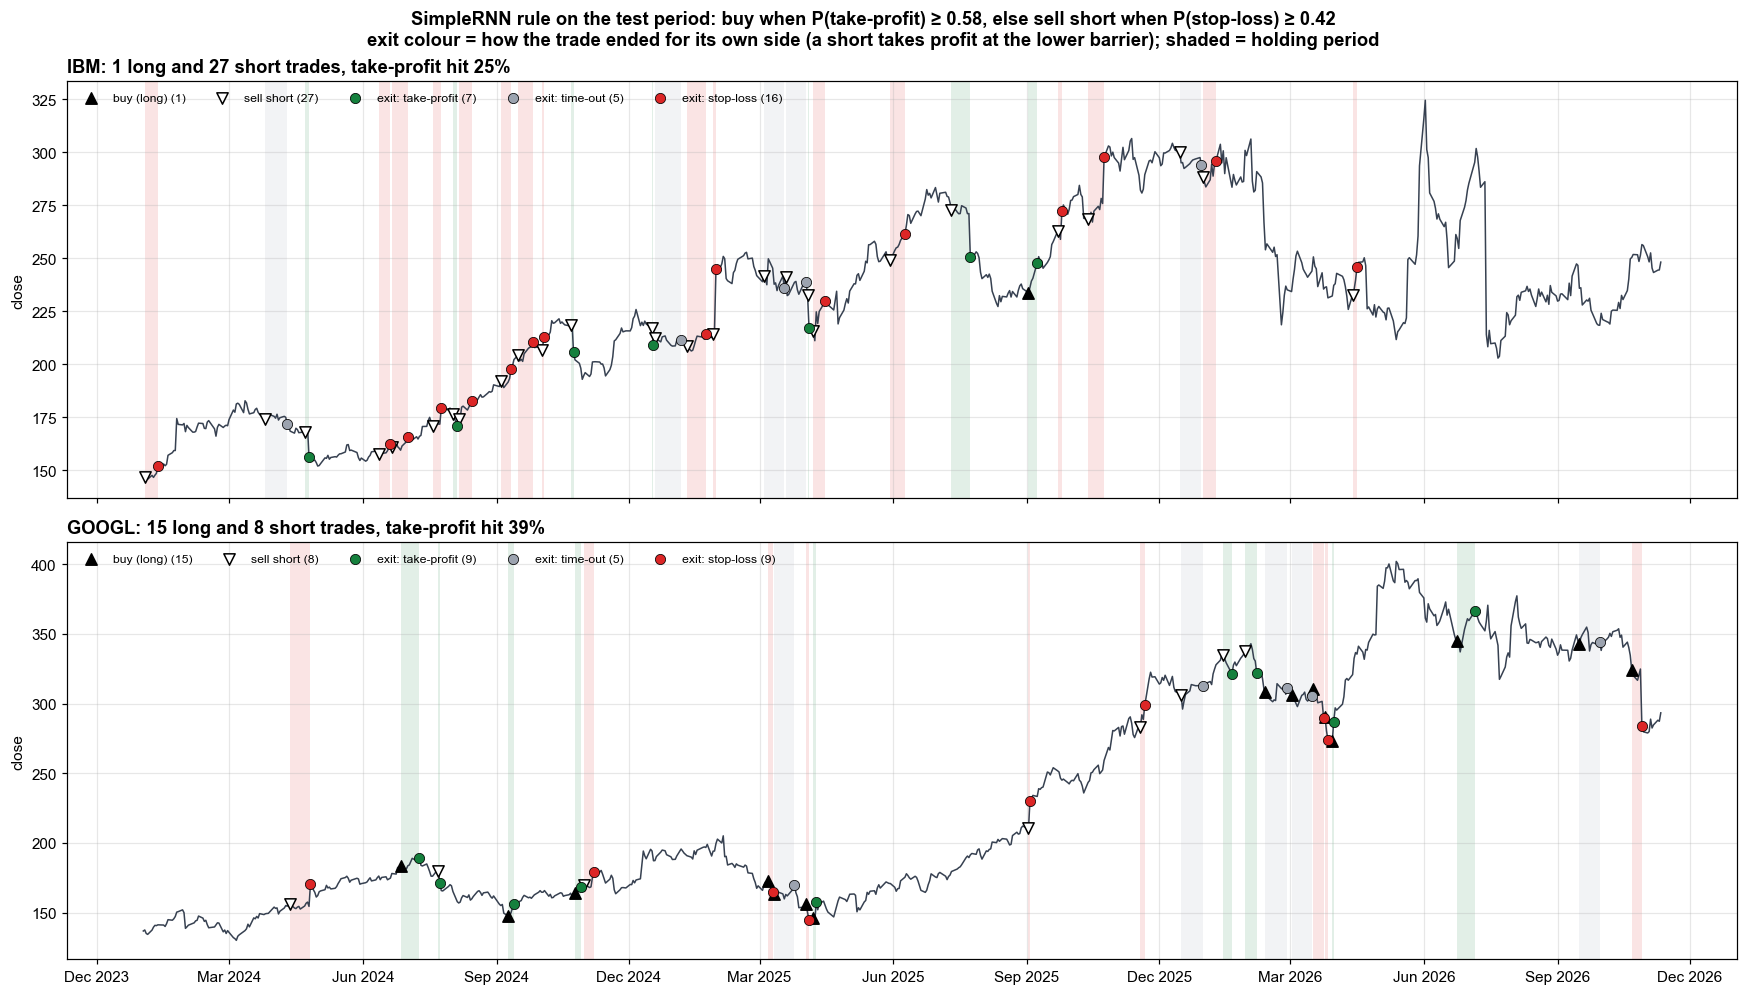
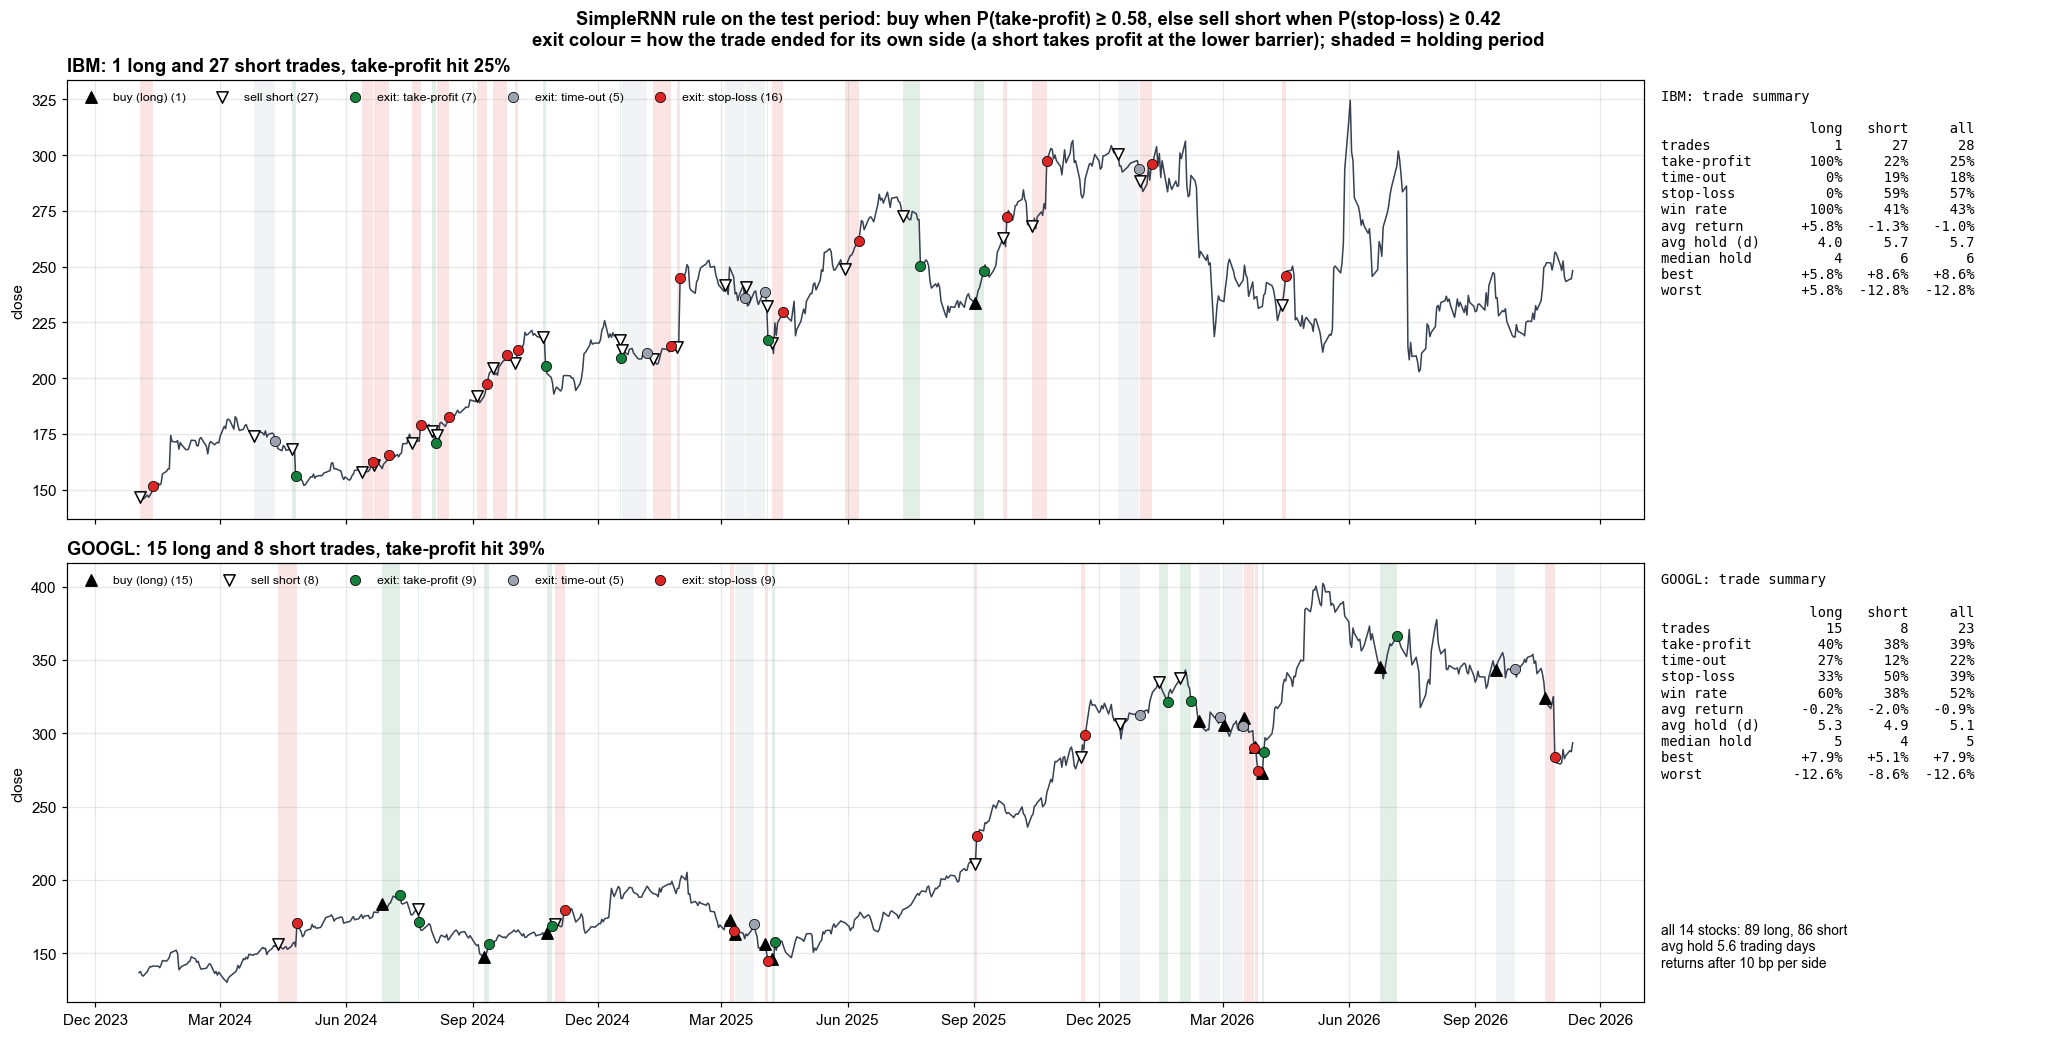
Trade chart: per-stock trade summary (long/short counts, outcomes, win rate, returns, holding time); summary table in README

diff --git a/README.md b/README.md
@@ -64,6 +64,19 @@ Shorting looked great on validation because 2022 fell. On the rising test period
 
 ![long and short trades on the price chart](reports/figures/05_trades_on_chart.png)
 
+All 14 stocks, test period (return of one position, which holds 1/14 of the capital, after 10 bp per side; holding time in trading days):
+
+| Trades | Long | Short | All |
+|---|---|---|---|
+| Number of trades | 89 | 86 | 175 |
+| Take-profit / time-out / stop-loss | 52 % / 18 % / 30 % | 33 % / 26 % / 42 % | 42 % / 22 % / 36 % |
+| Win rate (return > 0) | 63 % | 47 % | 55 % |
+| Average return per trade | +1.5 % | -0.6 % | +0.5 % |
+| Average / median holding | 5.4 / 4 days | 5.9 / 6 days | 5.6 / 5 days |
+| Best / worst trade | +18.5 % / -12.6 % | +24.6 % / -20.4 % | +24.6 % / -20.4 % |
+
+Longs win more often than they lose; shorts lose more often than they win, and they hold a little longer because a short's take-profit (a fall) is rarer in a rising market.
+
 **Question:** how does $1 grow, compared with simply holding the same stocks?
 
 **Answer:** $1 → about $1.10 long only (CAGR 3.3 %, max drawdown -3 %), about $1.07 long + short (CAGR 2.2 %, max drawdown -7 %), and about $1.97 for buy-and-hold (CAGR 26.9 %, max drawdown -28 %).
